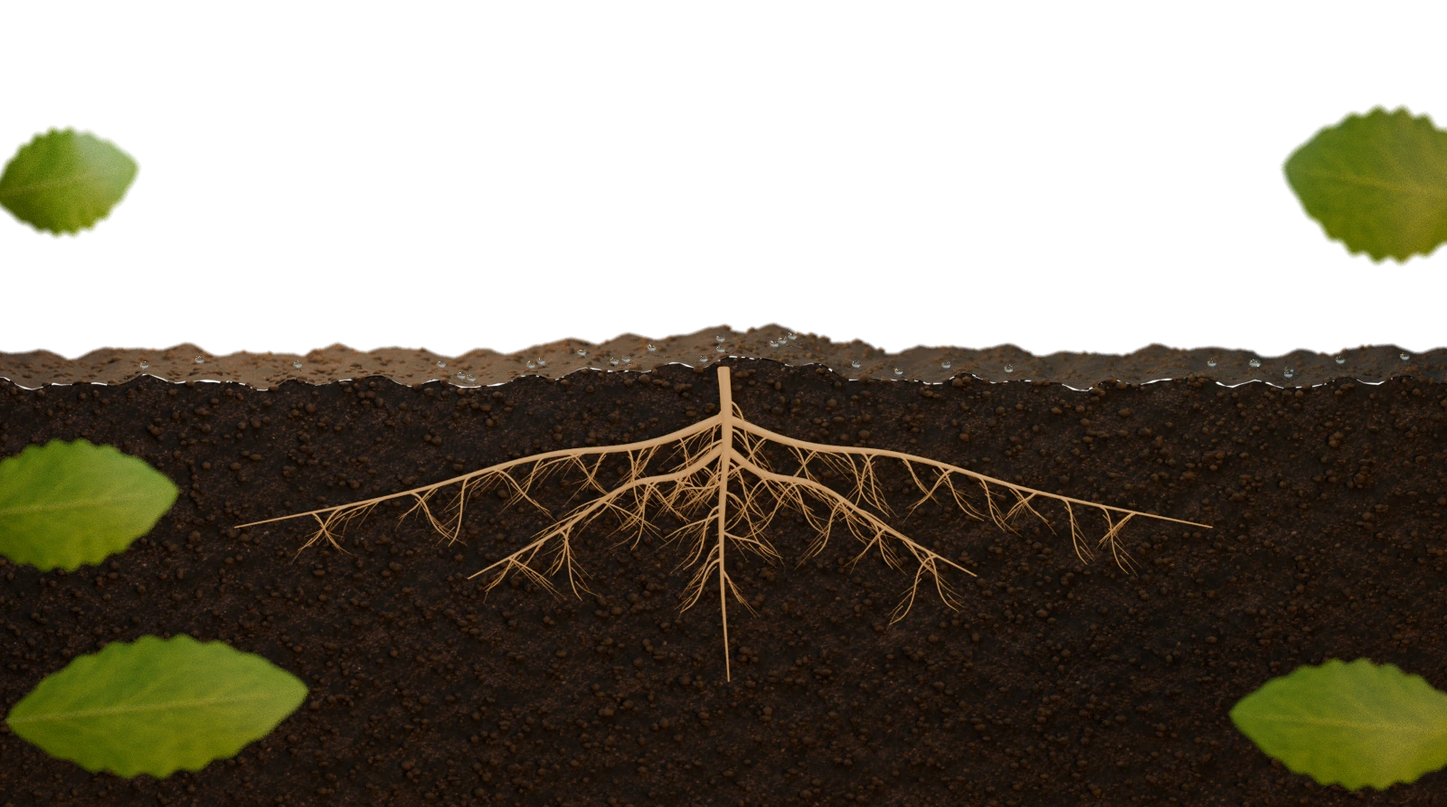
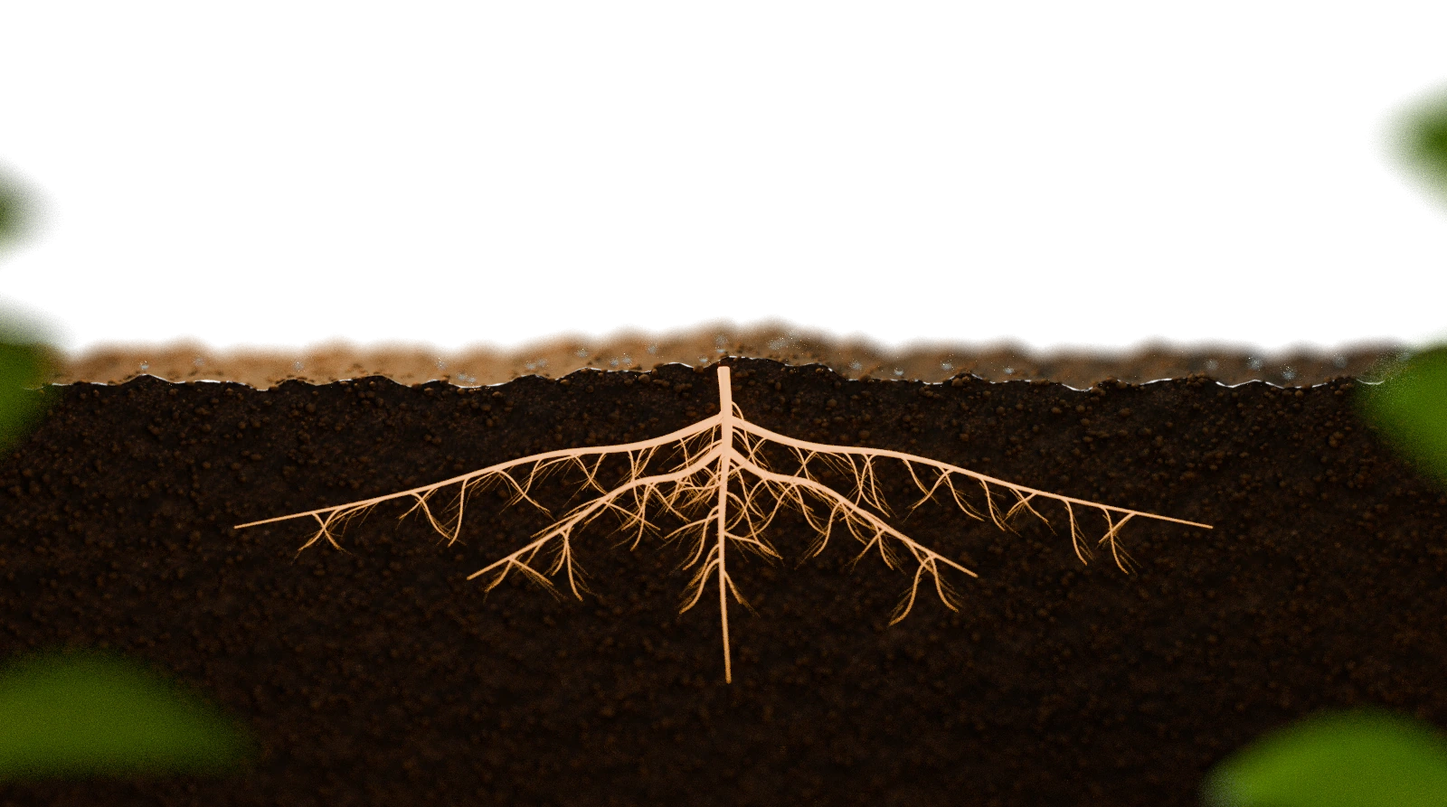
Match reference leaf curvature, dawn lighting, brand and responsive root guide layout

diff --git a/root-guide.js b/root-guide.js
@@ -17,12 +17,11 @@ import menuIcon from '@phosphor-icons/core/assets/regular/list.svg?raw';
 import playIcon from '@phosphor-icons/core/assets/regular/play-circle.svg?raw';
 import seedIcon from '@phosphor-icons/core/assets/regular/grains.svg?raw';
 import flowerIcon from '@phosphor-icons/core/assets/regular/flower-lotus.svg?raw';
-import logoIcon from '@phosphor-icons/core/assets/fill/recycle-fill.svg?raw';
 import homeIcon from '@phosphor-icons/core/assets/fill/house-fill.svg?raw';
 (() => {
 'use strict';
 
-const icons={farm:farmIcon,calendar:calendarIcon,clipboard:clipboardIcon,plant:plantIcon,cube:cubeIcon,leaf:leafIcon,grid:gridIcon,book:bookIcon,chart:chartIcon,search:searchIcon,right:rightIcon,left:leftIcon,down:downIcon,close:closeIcon,menu:menuIcon,play:playIcon,seed:seedIcon,flower:flowerIcon,home:homeIcon,logo:logoIcon};
+const icons={farm:farmIcon,calendar:calendarIcon,clipboard:clipboardIcon,plant:plantIcon,cube:cubeIcon,leaf:leafIcon,grid:gridIcon,book:bookIcon,chart:chartIcon,search:searchIcon,right:rightIcon,left:leftIcon,down:downIcon,close:closeIcon,menu:menuIcon,play:playIcon,seed:seedIcon,flower:flowerIcon,home:homeIcon,logo:leafIcon};
 const icon=(name,cls='')=>`<span class="earth-icon ${cls}" aria-hidden="true">${icons[name]||leafIcon}</span>`;
 const titles=['Quản lý Cánh đồng','Quản lý Mùa vụ','Công việc Hằng ngày','Quan sát Cây trồng','Quản lý Đơn hàng'];
 const summaries=['Theo dõi, phân vùng và quản lý khu canh tác','Lập kế hoạch, theo dõi tiến độ và năng suất','Giao việc, nhắc việc và kiểm soát quy trình','Nhận diện, theo dõi sinh trưởng và cảnh báo sớm','Kết nối thị trường và theo dõi đơn hàng'];
@@ -31,7 +30,7 @@ const stages=['Hạt giống','Nảy mầm','Sinh trưởng','Ra hoa','Thu hoạ
 const stageIcons=['seed','plant','leaf','flower','seed'];
 // These positions are projected from the Blender camera, then checked against the reference.
 const anchors=[{x:16.22,y:66.2},{x:32.34,y:72.6},{x:50,y:75.8},{x:67.48,y:72.3},{x:83.78,y:66.2}];
-const brand=`${icon('logo','brand-mark')}<span class="earth-brand-name">AGRIDELTA<small>Nông nghiệp thông minh · Bền vững · Hiệu quả</small></span>`;
+const brand=`<img class="brand-mark" src="/assets/agridelta-brand-mark.webp" alt="" width="48" height="48"><span class="earth-brand-name">AGRIDELTA<small>Nông nghiệp thông minh · Bền vững · Hiệu quả</small></span>`;
 const html=`<div id="rg-site" class="rg-site earth-site"><a class="earth-skip" href="#rg-roots">Đi đến các hướng dẫn</a>
 <main><section class="earth-stage" id="rg-top" aria-label="AGRIDELTA — Từ hạt giống đến mùa vụ bền vững">
 <div class="scene-illustration" aria-hidden="true"><img class="scene-landscape" src="/assets/reference-landscape-v2.webp" alt="" fetchpriority="high"><img class="scene-earth" src="/assets/earth-ground-v2.webp" alt="" fetchpriority="high"><img class="scene-plant" id="earth-plant" src="/assets/earth-plant-1.webp" alt="" fetchpriority="high">${FEATURES.map((_,i)=>`<img class="scene-root-focus" data-root-focus="${i}" src="/assets/earth-root-focus-${i}.webp" alt="" loading="lazy">`).join('')}</div>

diff --git a/public/layout-check.html b/public/layout-check.html
@@ -1,1 +1,1 @@
-<!doctype html><html lang="vi"><meta charset="utf-8"><meta name="viewport" content="width=device-width"><title>AGRIDELTA · Responsive QA</title><style>body{margin:0;background:#e7e9df;font:13px system-ui;color:#264330}header{display:flex;gap:20px;padding:18px;align-items:center}button{padding:10px;background:white;border:1px solid #ccc;cursor:pointer}main{padding:0 18px 20px;display:flex;gap:20px;align-items:start}iframe{flex-shrink:0;border:0;background:#f8f7ef;box-shadow:0 3px 20px #0001}p{margin:0 0 12px}</style><header><b>AGRIDELTA · Kiểm tra responsive</b><button onclick="setWidth(390)">390 px</button><button onclick="setWidth(320)">320 px</button><button onclick="setWidth(768)">768 px</button><button onclick="setWidth(1440)">1440 px</button><button onclick="reference()">Ảnh mẫu 905 × 505</button><span id="metrics"></span></header><main><iframe id="preview" title="AGRIDELTA mobile" src="/" style="width:390px;height:844px"></iframe></main><script>const f=document.querySelector('iframe');function metrics(){try{const d=f.contentDocument;document.querySelector('#metrics').textContent=`Viewport ${d.documentElement.clientWidth}px · Nội dung ${d.documentElement.scrollWidth}px · ${d.documentElement.scrollWidth>d.documentElement.clientWidth?'TRÀN NGANG':'Không tràn ngang'}`;}catch{}}function reference(){f.src="/?capture=reference";f.style.width="905px";f.style.height="505px";setTimeout(metrics,250)}function setWidth(w){f.style.height="844px";f.style.width=w+'px';setTimeout(metrics,250)}f.onload=()=>{metrics();setInterval(metrics,2000)}</script></html>
+<!doctype html><html lang="vi"><meta charset="utf-8"><meta name="viewport" content="width=device-width"><title>AGRIDELTA · Responsive QA</title><style>body{margin:0;background:#e7e9df;font:13px system-ui;color:#264330}header{display:flex;gap:20px;padding:18px;align-items:center}button{padding:10px;background:white;border:1px solid #ccc;cursor:pointer}main{padding:0 18px 20px;display:flex;gap:20px;align-items:start}iframe{flex-shrink:0;border:0;background:#f8f7ef;box-shadow:0 3px 20px #0001}p{margin:0 0 12px}</style><header><b>AGRIDELTA · Kiểm tra responsive</b><button onclick="setWidth(390)">390 px</button><button onclick="setWidth(320)">320 px</button><button onclick="setWidth(768)">768 px</button><button onclick="setWidth(1440)">1440 px</button><button onclick="reference()">Ảnh mẫu 905 × 505</button><span id="metrics"></span></header><main><iframe id="preview" title="AGRIDELTA mobile" src="/" style="width:390px;height:844px"></iframe></main><script>const f=document.querySelector('iframe');function metrics(){try{const d=f.contentDocument;document.querySelector('#metrics').textContent=`Viewport ${d.documentElement.clientWidth}px · Nội dung ${d.documentElement.scrollWidth}px · ${d.documentElement.scrollWidth>d.documentElement.clientWidth?'TRÀN NGANG':'Không tràn ngang'}`;}catch{}}function reference(){f.src="/?capture=reference";f.style.width="905px";f.style.height="505px";setTimeout(metrics,250)}function setWidth(w){if(f.src.includes("capture=reference"))f.src="/";f.style.height="844px";f.style.width=w+'px';setTimeout(metrics,250)}f.onload=()=>{metrics();setInterval(metrics,2000)}</script></html>

diff --git a/tests/layout-check.html b/tests/layout-check.html
@@ -1,1 +1,1 @@
-<!doctype html><html lang="vi"><meta charset="utf-8"><meta name="viewport" content="width=device-width"><title>AGRIDELTA · Responsive QA</title><style>body{margin:0;background:#e7e9df;font:13px system-ui;color:#264330}header{display:flex;gap:20px;padding:18px;align-items:center}button{padding:10px;background:white;border:1px solid #ccc;cursor:pointer}main{padding:0 18px 20px;display:flex;gap:20px;align-items:start}iframe{flex-shrink:0;border:0;background:#f8f7ef;box-shadow:0 3px 20px #0001}p{margin:0 0 12px}</style><header><b>AGRIDELTA · Kiểm tra responsive</b><button onclick="setWidth(390)">390 px</button><button onclick="setWidth(320)">320 px</button><button onclick="setWidth(768)">768 px</button><button onclick="setWidth(1440)">1440 px</button><button onclick="reference()">Ảnh mẫu 905 × 505</button><span id="metrics"></span></header><main><iframe id="preview" title="AGRIDELTA mobile" src="/" style="width:390px;height:844px"></iframe></main><script>const f=document.querySelector('iframe');function metrics(){try{const d=f.contentDocument;document.querySelector('#metrics').textContent=`Viewport ${d.documentElement.clientWidth}px · Nội dung ${d.documentElement.scrollWidth}px · ${d.documentElement.scrollWidth>d.documentElement.clientWidth?'TRÀN NGANG':'Không tràn ngang'}`;}catch{}}function reference(){f.src="/?capture=reference";f.style.width="905px";f.style.height="505px";setTimeout(metrics,250)}function setWidth(w){f.style.height="844px";f.style.width=w+'px';setTimeout(metrics,250)}f.onload=()=>{metrics();setInterval(metrics,2000)}</script></html>
+<!doctype html><html lang="vi"><meta charset="utf-8"><meta name="viewport" content="width=device-width"><title>AGRIDELTA · Responsive QA</title><style>body{margin:0;background:#e7e9df;font:13px system-ui;color:#264330}header{display:flex;gap:20px;padding:18px;align-items:center}button{padding:10px;background:white;border:1px solid #ccc;cursor:pointer}main{padding:0 18px 20px;display:flex;gap:20px;align-items:start}iframe{flex-shrink:0;border:0;background:#f8f7ef;box-shadow:0 3px 20px #0001}p{margin:0 0 12px}</style><header><b>AGRIDELTA · Kiểm tra responsive</b><button onclick="setWidth(390)">390 px</button><button onclick="setWidth(320)">320 px</button><button onclick="setWidth(768)">768 px</button><button onclick="setWidth(1440)">1440 px</button><button onclick="reference()">Ảnh mẫu 905 × 505</button><span id="metrics"></span></header><main><iframe id="preview" title="AGRIDELTA mobile" src="/" style="width:390px;height:844px"></iframe></main><script>const f=document.querySelector('iframe');function metrics(){try{const d=f.contentDocument;document.querySelector('#metrics').textContent=`Viewport ${d.documentElement.clientWidth}px · Nội dung ${d.documentElement.scrollWidth}px · ${d.documentElement.scrollWidth>d.documentElement.clientWidth?'TRÀN NGANG':'Không tràn ngang'}`;}catch{}}function reference(){f.src="/?capture=reference";f.style.width="905px";f.style.height="505px";setTimeout(metrics,250)}function setWidth(w){if(f.src.includes("capture=reference"))f.src="/";f.style.height="844px";f.style.width=w+'px';setTimeout(metrics,250)}f.onload=()=>{metrics();setInterval(metrics,2000)}</script></html>

diff --git a/root-guide.css b/root-guide.css
@@ -17,3 +17,19 @@ body.earth-modal-open{overflow:hidden}.earth-modal{position:fixed;inset:0;z-inde
 .root-gesture-plane{position:absolute;left:0;right:0;top:55%;bottom:0;pointer-events:auto}
 .reference-capture .earth-footer{display:none}
 @media(max-width:719px){.root-gesture-plane{top:0}}
+
+/* Reference QA fixes: exact capture size, source headline baseline and navigation rhythm. */
+.earth-kicker{display:block;line-height:1.4}
+.earth-intro h1{font-weight:800}
+.earth-intro h1 em{font-weight:800}
+.earth-intro-actions{margin-top:1.2vw}
+.earth-nav{gap:2.4vw}
+.reference-capture,.reference-capture body{overflow:hidden;height:100vh}
+@media(max-width:1150px) and (min-width:850px){.earth-header{left:8.8%;right:7.5%}.earth-nav{gap:2.4vw}}
+@media(max-width:719px){.earth-intro-actions{margin-top:19px}.earth-nav{gap:0}}
+/* Keep the glass node centres aligned with the rendered branch tips. */
+@media(min-width:720px){.root-orb{width:8.6vw;height:8.6vw}.root-feature{top:calc(var(--root-y) - 4.3vw)}.root-card>strong{font-size:clamp(8px,1.05vw,17px)}}
+@media(max-width:719px){.earth-stage{height:1100px}.scene-illustration>img:not(.scene-landscape){top:340px}.scene-illustration>.scene-landscape{height:715px}.plant-journey{top:318px;left:7%;right:7%;width:auto;max-width:350px}.earth-scroll{top:655px}.root-features{top:733px}.plant-stages>button{font-size:8px!important}.plant-stages>button:not(:last-child):after{right:-8px}.plant-journey h2{font-size:10px}}
+@media(max-width:335px){.earth-intro h1{font-size:26px}.earth-cta,.earth-secondary{font-size:8px!important;gap:5px;padding:10px 9px}.earth-cta>.earth-icon,.earth-secondary>.earth-icon{width:12px;height:12px}}
+
+.earth-brand>.brand-mark{display:block;object-fit:contain}

diff --git a/index.html b/index.html
@@ -12,7 +12,7 @@
   <link rel="preconnect" href="https://fonts.googleapis.com" />
   <link rel="preconnect" href="https://fonts.gstatic.com" crossorigin />
   <link href="https://fonts.googleapis.com/css2?family=Be+Vietnam+Pro:ital,wght@0,400;0,500;0,600;0,700;0,800;0,900;1,800&display=swap" rel="stylesheet" />
-  <link rel="icon" type="image/svg+xml" href="/assets/agridelta-icon.svg" />
+  <link rel="icon" type="image/png" href="/assets/agridelta-brand-icon.png" />
   <link rel="stylesheet" href="/style.css" />
   <link rel="stylesheet" href="/root-guide.css" />
   <link rel="stylesheet" href="/app-polish.css" />

diff --git a/blender/reference_earth.py b/blender/reference_earth.py
@@ -13,7 +13,7 @@ bpy.ops.object.select_all(action='SELECT');bpy.ops.object.delete(use_global=Fals
 s=bpy.context.scene;s.render.engine='CYCLES';s.cycles.samples=48;s.cycles.use_denoising=False
 s.render.resolution_x=1600;s.render.resolution_y=893;s.render.resolution_percentage=100
 s.render.image_settings.file_format='PNG';s.render.image_settings.color_mode='RGBA';s.render.film_transparent=True
-s.view_settings.view_transform='AgX';s.render.fps=24
+s.view_settings.view_transform='AgX';s.view_settings.look='AgX - Medium High Contrast';s.render.fps=24
 # Warm backlight and a physically lit sky remain active even with transparent film.
 s.world.use_nodes=True;wn=s.world.node_tree.nodes;wb=wn.get('Background');sky=wn.new('ShaderNodeTexSky');sky.sky_type='NISHITA';sky.sun_elevation=.12;sky.sun_rotation=2.6;sky.sun_disc=False;wb.inputs['Strength'].default_value=.14;s.world.node_tree.links.new(sky.outputs['Color'],wb.inputs['Color'])
 COL={}
@@ -42,14 +42,14 @@ l.new(coords.outputs['Generated'],mapping.inputs['Vector']);l.new(mapping.output
 clods=[mat('Earth aggregate %d'%i,(.013+i*.006,.004+i*.0026,.001+i*.0007),.96) for i in range(12)]
 stemmat=mat('Soft translucent green stem',(.29,.43,.035),.43);stemmat.node_tree.nodes.get('Principled BSDF').inputs['Subsurface Weight'].default_value=.18
 vein=mat('Raised yellow-green midrib',(.46,.55,.14),.48)
-rootmat=mat('Living roots - warm ivory',(.50,.25,.07),.62,.72)
+rootmat=mat('Living roots - warm ivory',(.74,.31,.075),.56,1.75)
 fineroot=mat('Root hairs - fine cream',(.42,.20,.061),.8,.65)
 brightroot=mat('Selected root illumination',(.9,.53,.16),.4,5)
 seedmat=mat('Brown seed husk',(.25,.10,.025),.52)
 seedmat.node_tree.nodes.get('Principled BSDF').inputs['Subsurface Weight'].default_value=.08
-leafmat=mat('Young leaf - real lamina texture',(.4,.55,.08),.4)
-p=leafmat.node_tree.nodes.get('Principled BSDF');p.inputs['Subsurface Weight'].default_value=.10;p.inputs['Subsurface Radius'].default_value=(.16,.26,.04);p.inputs['Transmission Weight'].default_value=.08
-im=bpy.data.images.load(OUT+'/leaf-albedo-v2.webp');im.pack();tex=leafmat.node_tree.nodes.new('ShaderNodeTexImage');tex.image=im;mix=leafmat.node_tree.nodes.new('ShaderNodeMixRGB');mix.blend_type='MULTIPLY';mix.inputs[0].default_value=1;mix.inputs[2].default_value=(.66,.79,.44,1);leafmat.node_tree.links.new(tex.outputs['Color'],mix.inputs[1]);leafmat.node_tree.links.new(mix.outputs[0],p.inputs['Base Color'])
+leafmat=mat('Young leaf - real lamina texture',(.4,.55,.08),.24)
+p=leafmat.node_tree.nodes.get('Principled BSDF');p.inputs['Subsurface Weight'].default_value=.06;p.inputs['Subsurface Radius'].default_value=(.16,.26,.04);p.inputs['Transmission Weight'].default_value=.08
+im=bpy.data.images.load(OUT+'/leaf-albedo-v2.webp');im.pack();tex=leafmat.node_tree.nodes.new('ShaderNodeTexImage');tex.image=im;mix=leafmat.node_tree.nodes.new('ShaderNodeMixRGB');mix.blend_type='MULTIPLY';mix.inputs[0].default_value=1;mix.inputs[2].default_value=(.46,.73,.30,1);leafmat.node_tree.links.new(tex.outputs['Color'],mix.inputs[1]);leafmat.node_tree.links.new(mix.outputs[0],p.inputs['Base Color'])
 b=leafmat.node_tree.nodes.new('ShaderNodeBump');b.inputs['Strength'].default_value=.14;b.inputs['Distance'].default_value=.009;leafmat.node_tree.links.new(tex.outputs['Color'],b.inputs['Height']);leafmat.node_tree.links.new(b.outputs['Normal'],p.inputs['Normal'])
 water=mat('Clear surface-tension dew',(.94,.98,1),.025);p=water.node_tree.nodes.get('Principled BSDF');p.inputs['IOR'].default_value=1.333;p.inputs['Transmission Weight'].default_value=1
 petal=mat('Bean blossom - warm ivory',(.88,.83,.57),.58)
@@ -127,11 +127,13 @@ curve('Shoot highlight',[(-.022,-.001,.25),(-.018,.003,.82),(-.056,.003,1.45)],.
 def leaf(name,base,tip,width,col='Plant',dew=True):
  base=Vector(base);tip=Vector(tip);axis=tip-base;side=axis.normalized().cross(Vector((0,-1,.18))).normalized()
  if side.z<0:side=-side
+ from mathutils import Matrix
+ side=Matrix.Rotation(math.radians(32),3,axis.normalized()) @ side
  up=axis.normalized().cross(side).normalized()
  if up.z<0:up=-up
  NX=62;NY=24;verts=[];faces=[]
  def point(t,q):
-  center=base+axis*t;profile=sin(pi*t)**.74
+  center=base+axis*t+Vector((0,0,.26*sin(pi*t)-.09*t**5));profile=sin(pi*t)**.74
   width_here=width*profile*(1+.05*sin(17*pi*t)*abs(q))
   return center+side*(q*width_here)+up*(.12*sin(pi*t)-.10*t**5+.045*(1-q*q)*sin(pi*t)+.018*q*sin(4*pi*t))
  for i in range(NX+1):
@@ -150,9 +152,9 @@ def leaf(name,base,tip,width,col='Plant',dew=True):
    r=random.uniform(.012,.031);o=sphere(name+' dew %02d'%k,tuple(pos),(r,r,r*.63),water,col,16,10)
  return point
 # Direction and proportions follow the supplied three-leaf silhouette.
-left=leaf('Primary left leaf',(-.09,.04,1.40),(-1.62,.10,1.71),.35)
-right=leaf('Primary right leaf',(-.07,.06,1.48),(1.43,.17,2.37),.42)
-leaf('Young right leaf',(-.025,.035,.72),(.92,-.025,1.03),.22)
+left=leaf('Primary left leaf',(-.09,.04,1.40),(-1.62,.10,1.60),.25)
+right=leaf('Primary right leaf',(-.07,.06,1.48),(1.43,.17,2.37),.34)
+leaf('Young right leaf',(-.025,.035,.72),(.92,-.025,1.03),.16)
 curve('Left petiole',[(-.07,.04,1.38),(-.30,.04,1.52),(-.48,.04,1.58)],.018,stemmat,'Plant')
 # A pendant droplet hangs from the right tip in the reference.
 sphere('Pendant dew at right tip',(1.43,.17,2.295),(.037,.037,.058),water,'Plant',24,16)
@@ -188,19 +190,19 @@ for i,(x,y,z) in enumerate(anchors):
 # The central taproot continues past the large branch junctions.
 curve('Taproot connection',[(0,-.10,.14),(.015,-.13,-.40),(-.015,-.15,-1.30),(.04,-.16,-2.30)],.040,rootmat)
 # Out-of-focus foreground foliage frames the scene as in the photograph.
-for base,tip,w in [((-5.9,-2.8,-.55),(-4.2,-3.0,-.30),.48),((-5.5,-3,-2.1),(-3.2,-3.2,-1.82),.52),((5.9,-3,1.95),(4.3,-3.1,2.25),.58),((5.8,-3,-2.2),(3.9,-3.2,-2.0),.48),((-5.6,-3,2.0),(-4.5,-3.1,2.25),.40)]:leaf('Foreground leaf',base,tip,w,'Foreground',False)
+for base,tip,w in [((-6.8,-4,1.3),(-5.3,-4.1,2.2),.5),((-6.4,-4,-.2),(-5.2,-4.1,1.2),.65),((-6.5,-4,-2.3),(-3.6,-4.2,-2.0),.45),((6.8,-4,1.6),(5.2,-4.1,2.8),.55),((6.5,-4,-.4),(5.0,-4.1,.8),.55),((6.4,-4,-3.2),(3.8,-4.2,-2.3),.55)]:leaf('Foreground leaf',base,tip,w,'Foreground',False)
 
 # Fixed camera: the top of the soil falls at about 47% of frame height.
 bpy.ops.object.camera_add(location=(0,-13,2.2));cam=into(bpy.context.object,'Studio');cam.name='Reference fixed camera';target=Vector((0,0,-.16));cam.rotation_euler=(target-cam.location).to_track_quat('-Z','Y').to_euler();cam.data.type='ORTHO';cam.data.ortho_scale=11.1;s.camera=cam
-focus=bpy.data.objects.new('Focus seedling',None);COL['Studio'].objects.link(focus);focus.location=(0,0,.55);cam.data.dof.use_dof=True;cam.data.dof.focus_object=focus;cam.data.dof.aperture_fstop=3.8
+focus=bpy.data.objects.new('Focus seedling',None);COL['Studio'].objects.link(focus);focus.location=(0,0,.55);cam.data.dof.use_dof=True;cam.data.dof.focus_object=focus;cam.data.dof.aperture_fstop=.7
 
 def area(name,loc,power,color,size,target=(0,0,.3)):
  bpy.ops.object.light_add(type='AREA',location=loc);o=into(bpy.context.object,'Studio');o.name=name;o.data.energy=power;o.data.color=color;o.data.shape='DISK';o.data.size=size;o.rotation_euler=(Vector(target)-o.location).to_track_quat('-Z','Y').to_euler()
-area('Golden morning rim',(-3.6,2.2,3.8),800,(1,.68,.32),2.5)
-area('Open sky fill',(-2.5,-4,5),300,(.7,.84,1),5)
+area('Golden morning rim',(-3.6,2.2,3.8),1700,(1,.62,.24),1.6)
+area('Open sky fill',(-2.5,-4,5),180,(.75,.85,1),5)
 area('Soft leaf-side bounce',(4,-1,3.8),190,(.90,1,.65),3)
 # Gentle optical bloom on warm roots and dew glints, not an interface gradient.
-s.use_nodes=True;nodes=s.node_tree.nodes;nodes.clear();rl=nodes.new('CompositorNodeRLayers');gl=nodes.new('CompositorNodeGlare');gl.glare_type='FOG_GLOW';gl.quality='HIGH';gl.threshold=1.8;gl.size=7;gl.mix=-.88;co=nodes.new('CompositorNodeComposite');s.node_tree.links.new(rl.outputs['Image'],gl.inputs['Image']);s.node_tree.links.new(gl.outputs['Image'],co.inputs['Image'])
+s.use_nodes=True;nodes=s.node_tree.nodes;nodes.clear();rl=nodes.new('CompositorNodeRLayers');gl=nodes.new('CompositorNodeGlare');gl.glare_type='FOG_GLOW';gl.quality='HIGH';gl.threshold=1.8;gl.size=7;gl.mix=-.60;co=nodes.new('CompositorNodeComposite');s.node_tree.links.new(rl.outputs['Image'],gl.inputs['Image']);s.node_tree.links.new(gl.outputs['Image'],co.inputs['Image'])
 # UI anchors are projected from the actual scene, so clickable guides meet roots.
 layout=[]
 for p in anchors:

diff --git a/README.md b/README.md
@@ -1,52 +1,45 @@
-# AGRIDELTA · Living Growth
+# AGRIDELTA · Reference Earth
 
-Vietnamese agriculture frontend with an editorial landing page, a genuine Blender-authored germination animation and a browser-local farm-management demo.
+Live: https://agridelta.vercel.app
 
-**Production:** https://agridelta.vercel.app
+A faithful reconstruction of the supplied 905 × 505 AGRIDELTA visual, with genuinely Blender-authored plant, earth cutaway, branching roots, dew and glass guide nodes. The visible UI remains real HTML; the source screenshot is not flattened into the interface.
 
-**Source:** https://github.com/hungle2006/AGRIDELTA
+## Main experience
 
-## This release
+- Source headline, green typography, overlaid navigation, glass plant-journey panel and five root-connected feature cards.
+- Five Blender-rendered plant stages: seed, three-leaf seedling, growth, flowering and pod development. Fixed camera, no model spinning.
+- Click a root node to reveal its three-step guide and open the corresponding farm workflow.
+- Previous/next buttons, ArrowLeft/ArrowRight and horizontal wheel/swipe navigation cycle through the five guides.
+- On mobile, a scroll-snap feature rail updates the visible guide after a horizontal swipe. The guide sheet appears below the scene and remains keyboard accessible.
+- Search accepts accented and unaccented Vietnamese. Navigation, knowledge panel, modal Escape/focus trapping and demo entry work.
+- Existing fields, seasons, tasks, image preview and orders workflows are retained. This is still browser-local demo data, not secure authentication or server synchronization.
 
-- Calm ivory and forest-green layout with readable mobile typography and a compact mobile menu.
-- One synchronized 16-second GLB animation: seed coat separates, stem internodes extend, cotyledons open, and true leaves unfold from their attachment points. The camera and soil remain stationary. Playback stops at the mature seedling.
-- Three chapter controls, pause/resume and replay. Playback pauses when the scene is offscreen or the tab is hidden. Reduced-motion users see the completed plant initially. There is no automatic loop.
-- A WebP poster rendered from the same Blender scene supplies a static fallback while 3D loads. No CSS scaling is used to imitate biological growth.
-- The landing uses a 640 px H.264 Blender render (16 seconds, about 200 KB) for reliable playback on iOS and devices without WebGL. The same animated GLB is available in the workspace viewer. Model-viewer is bundled locally and loaded only when the optional 3D viewer is opened. No external runtime CDN is required.
-- Five accessible guide accordions with illustrated context and working demo routes.
-- Existing dashboard, fields, seasons, tasks, image preview and orders remain browser-local demo workflows. Login opens an accurately labelled demo entry; real accounts and server synchronization are not implemented.
+## Art and rendering
 
-## Development
+`blender/reference_earth.py` authors real geometry/materials, packs the leaf and soil texture images, creates the fixed studio and saves an editable `.blend`. It renders independent RGBA plant, soil/root and guide-focus layers at 1600 × 893, plus a 256 px physical glass orb. These are converted to WebP for fast, WebGL-independent display.
 
-Node 22+:
+The distant mountain landscape is a generated photographic backdrop. It is deliberately separate from the Blender plant/soil. Texture and backdrop assets are included so the scene is reproducible. Root button coordinates are projected from the actual Blender camera into `earth-layout.json`.
+
+```bash
+blender -b -t 6 --python blender/reference_earth.py
+python3 scripts/convert-earth-assets.py
+```
+
+Blender 4.3+ and Python Pillow are needed for regeneration. Intermediate PNGs and the generated `.blend` are reproducible and ignored by git. The `.py` authoring source and web-ready layers are versioned.
+
+## Development and checks
 
 ```bash
 npm ci
-npm run dev -- --host 127.0.0.1
+npm run dev -- --host 0.0.0.0 --port 4173 --strictPort
 node --check main.js
 node --check root-guide.js
 node --test tests/*.test.mjs
 npm run build
 ```
 
-## Blender source
+The dev wrapper handles managed Linux environments where network-interface enumeration is unavailable. It does not affect the production build.
 
-`blender/living_growth.py` creates the scene, meshes, physical materials, embedded leaf texture, growth keyframes, GLB and rendered PNG poster. Requires Blender 4.3+ and its bundled NumPy.
+`tests/layout-check.html` is a development-only responsive capture helper. Copy it temporarily to public/ for a preview deployment, then remove that public copy before production. The reference capture mode hides only the footer/scrollbar for equal-size visual comparison.
 
-```bash
-blender -b -t 4 --python blender/living_growth.py
-python3 -c "from PIL import Image; Image.open('public/assets/living-growth-poster.png').save('public/assets/living-growth-poster.webp',quality=88)"
-```
-
-The generated editable `.blend` and intermediate PNGs are reproducible and ignored by git. The web-ready GLB and WebP are versioned. The export script merges object animation sampler/channel tables into a single synchronized clip without modifying vertex/accessor buffers.
-
-Render the matching video with Blender and FFmpeg:
-
-```bash
-blender -b -t 6 --python blender/render_growth_video.py
-ffmpeg -y -framerate 12 -i blender/render_frames/frame_%04d.png -f lavfi -i color=c=0xf8f7ef:s=640x640:r=12 -filter_complex "[1:v][0:v]overlay=shortest=1:format=auto,hqdn3d=2:2:3:3,format=yuv420p" -c:v libx264 -preset slow -crf 19 -movflags +faststart -an public/assets/living-growth.mp4
-```
-
-## Scope
-
-Field/sensor values are sample values. Edits persist in the current browser only. The image preview does not diagnose plant disease. There is no secure authentication, database, cross-device synchronization or backend in this frontend project.
+Fonts: Be Vietnam Pro with genuine italic 800. Icons: Phosphor, chosen to match the source's rounded line symbols. No telemetry or analytics are added.

diff --git a/design-qa.md b/design-qa.md
@@ -1,0 +1,26 @@
+# AGRIDELTA reference reconstruction QA
+
+Source visual truth: design/reference-home.png (905 × 505 px).
+Implementation iteration 1: Vercel preview 01e26fe, screenshot /workspace/shared/agridelta-qa/reference-iteration-1.jpg.
+Full-view combined comparison: /workspace/shared/agridelta-qa/comparison-iteration-1.jpg.
+The initial iframe content viewport was 890 × 497 because of a scrollbar; it was normalized to 905 × 505 for the first composition comparison. Capture CSS is being corrected to obtain native 905 × 505 evidence.
+
+## Findings — iteration 1
+
+- [P1] Blender foliage reads too flat and lacks the reference's curved, backlit lamina. Narrow the blades, roll them in depth, arch the midrib, increase warm rim lighting and darken chlorophyll.
+- [P1] Foreground leaves appear as sharp, detached ovals. Move them to crop edges and use stronger optical depth of field in Blender.
+- [P2] Main root network needs the reference's warm illumination and softer bloom. Increase the physical emission and optical fog glow while keeping real tapered geometry.
+- [P2] Headline and description sit too low. Define the kicker line box explicitly and tighten the CTA gap.
+- [P2] Header navigation begins too far right. Increase source-matching gaps and restore the source header inset at the 905 px target.
+- [P2] Reference capture has a scrollbar. Hide overflow only in capture mode.
+
+Fonts/typography: Be Vietnam Pro regular/medium/800 and real italic 800, compared with the supplied raster. Source is not a font specification; the family is the closest existing project match.
+Spacing/layout: content, journey panel, soil horizon and five feature nodes use measured source proportions. The clickable node anchors are projected from the Blender camera.
+Colors/tokens: green title/CTAs, brown translucent cards and lime icons retained; image contrast and rim light are in revision.
+Image fidelity: all plant, soil, roots, dew and orbs are actual Blender geometry/material renders. A generated photographic mountain backdrop is composited behind them. Phosphor icons replace hand-drawn approximations.
+Copy: reference headline, navigation, five feature titles and summaries are reproduced. Detailed instructions remain connected to working demo workflows.
+
+Primary interactions and responsive states: pending final pass.
+Console errors: pending final pass.
+
+final result: blocked
